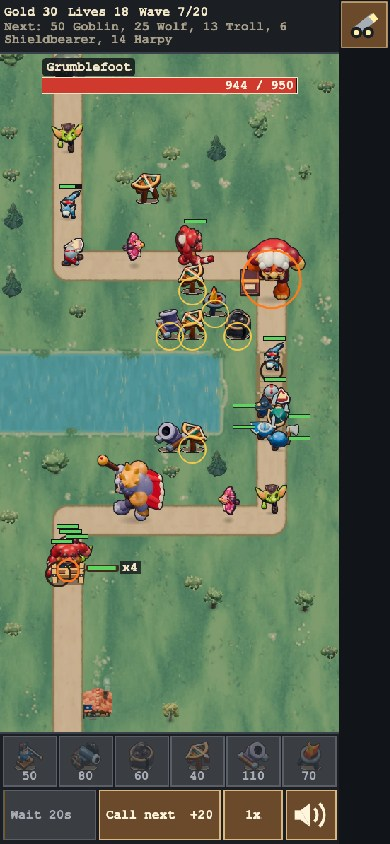
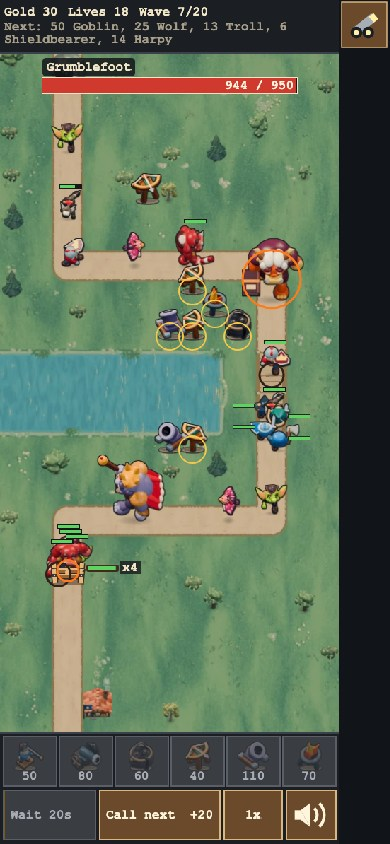
Refresh theme captures and correct the cold-load record

diff --git a/scripts/art/review_theme.ts b/scripts/art/review_theme.ts
@@ -15,7 +15,7 @@ try {
     const phone = layout === 'phone';
     const page = await browser.newPage({
       viewport: phone ? { width: 390, height: 844 } : { width: 960, height: 580 },
-      deviceScaleFactor: phone ? 3 : 1, isMobile: phone, hasTouch: phone,
+      deviceScaleFactor: 1, isMobile: phone, hasTouch: phone,
     });
     for (const map of ['meadow', 'switchback', 'riverbend'] as const) {
       await page.goto(`http://localhost:${process.env.PW_PORT}/?test=1&look=painted`);
@@ -50,7 +50,7 @@ try {
         // Space the cast along the road with two congested encounters at the blockers.
         const cast = [
           ['goblin', .08], ['wolf', .13], ['shieldbearer', .19], ['harpy', .24],
-          ['troll', .30], ['boss', .41], ['wolf', .47], ['shieldbearer', .51],
+          ['troll', .30], ['boss', .41], ['wolf', .55], ['shieldbearer', .48],
           ['goblin', .60], ['harpy', .64], ['grumblemaw', .74],
           ['goblin', .82], ['troll', .83], ['shieldbearer', .85], ['wolf', .86],
         ] as const;
@@ -58,6 +58,7 @@ try {
           id: state.nextEnemyId++, type, hp: i === 1 ? 650 : 950, maxHp: 950,
           distance: fraction * total, slow: 0, slowTicksLeft: 0,
         }));
+        const [, squadHound] = state.enemies.filter(e => e.type === 'wolf');
         for (const [special, fraction] of [['guards', .55], ['barricade', .86]] as const) {
           state.specialCharges = 1;
           state.specialRechargeTicks = 0;
@@ -66,7 +67,10 @@ try {
           if (!result.ok) throw Error(`${map} ${special}: ${result.reason}`);
           a.step(1);
         }
-        // The Barricade stops ground walkers only once they cross it.
+        // Stage one Hound meeting the squad and four walkers meeting the Barricade.
+        const guards = state.blockers.filter(b => b.kind === 'guard');
+        const guardDistance = Math.min(...guards.map(g => g.distance));
+        squadHound.distance = guardDistance - .1;
         const barrier = state.blockers.find(b => b.kind === 'barricade')!;
         for (const enemy of state.enemies.slice(-4)) enemy.distance = barrier.distance - .1;
         Object.assign(state.enemies.at(-2)!, { specialSlow: .4, specialSlowTicksLeft: 120 });
@@ -75,7 +79,8 @@ try {
         const snapshot = a.painted();
         const held = state.enemies.filter(e => e.type !== 'harpy' && e.distance === barrier.distance);
         if (held.length !== 4) throw Error(`Expected four held walkers on ${map}`);
-        if (!snapshot.active || state.map.id !== map || new Set(state.enemies.map(e => e.type)).size !== 7
+        if (squadHound.distance !== guardDistance) throw Error(`Hound missed the squad on ${map}`);
+        if (!snapshot.active || snapshot.density !== 1 || state.map.id !== map || new Set(state.enemies.map(e => e.type)).size !== 7
             || a.ui().special.guards.length !== 4) throw Error(`Incomplete review scene: ${map}`);
       }, map);
       await page.evaluate(async () => {
@@ -83,20 +88,20 @@ try {
         await new Promise<void>(ready => requestAnimationFrame(() => requestAnimationFrame(() => ready())));
       });
       await page.screenshot({ path: `${output}/${map}-${layout}.jpg`, quality: 89, scale: 'css' });
-      if (map === 'meadow' && !phone) {
-        for (const boss of ['boss', 'grumblemaw'] as const) {
-          const rect = await page.evaluate(type => {
-            const a = window.__tarpit as TarpitTestApi;
-            const key = type === 'boss' ? 'grumblefoot' : 'grumblemaw';
-            const sprite = a.painted().sprites.find(s => s.visible && s.key.includes(':' + key + ':'))!;
-            return a.canvasToPage(sprite.x, sprite.y);
-          }, boss);
-          const width = 320, height = 210;
-          const x = Math.max(0, Math.min(960 - width, Math.round(rect.x - width/2)));
-          const y = Math.max(0, Math.min(580 - height, Math.round(rect.y - height * .65)));
-          await page.screenshot({ path: `${output}/${boss === 'boss' ? 'assessor' : 'king'}.jpg`,
-            clip: { x, y, width, height }, quality: 93, scale: 'css' });
-        }
+      // Each boss faces the camera at this bend on its respective map.
+      if (!phone && (map === 'meadow' || map === 'riverbend')) {
+        const boss = map === 'meadow' ? 'boss' : 'grumblemaw';
+        const rect = await page.evaluate(type => {
+          const a = window.__tarpit as TarpitTestApi;
+          const key = type === 'boss' ? 'grumblefoot' : 'grumblemaw';
+          const sprite = a.painted().sprites.find(s => s.visible && s.key.includes(':' + key + ':'))!;
+          return a.canvasToPage(sprite.x, sprite.y);
+        }, boss);
+        const width = 320, height = 210;
+        const x = Math.max(0, Math.min(960 - width, Math.round(rect.x - width/2)));
+        const y = Math.max(0, Math.min(580 - height, Math.round(rect.y - height * .65)));
+        await page.screenshot({ path: `${output}/${boss === 'boss' ? 'assessor' : 'king'}.jpg`,
+          clip: { x, y, width, height }, quality: 93, scale: 'css' });
       }
       assert.equal(await page.evaluate(() => window.__tarpit!.scene!()), 'game');
     }

diff --git a/DEVLOG.md b/DEVLOG.md
@@ -9343,7 +9343,7 @@ grew from 412,201 to 450,948 bytes (9.4%). The full 2× load grew from
 1,013,421 to 1,115,469 bytes. The three-request path and the four-request
 speed-probe path use the existing loader.
 
-Cold Meadow Play with the production service worker on the shaped 1.6 Mbps,
+Cold Meadow Play with the service worker blocked on the shaped 1.6 Mbps,
 150 ms link took 2.470 s before and 2.568 s after at 1×. At 2× it took
 5.691 s before and 5.924 s after. Each measurement fetched three art files.
 
@@ -9353,3 +9353,14 @@ Verifier notes (44b):
 - `e2e/theme-verifier.spec.ts` pins the Guard outfit through a fight, 3x, a blur, a portrait/landscape switch, two squads, and a squad cut to three, and checks Classic still reports no outfit frame.
 - Cold Meadow load, `scripts/art/measure_painted.ts --baseline` (service worker blocked by the script; shaped 1.6 Mbps, 150 ms), three runs each: 1x main 2,260 ms (2,253 to 2,267), 44b 2,468 ms (2,467 to 2,484), +9.2%; 2x main 5,357 ms, 44b 5,885 ms, +9.9%. Three painted requests in each case. The DEVLOG above says "with the production service worker"; the script blocks the worker, so the numbers are for the plain network path.
 - Reading at game size: see the six captures in `docs/art/theme/verifier/`. The Hound is the one enemy that stayed blue, and it now shares the Guards' hue; the Redcoat's grey helmet beside the Swordsman's pale blue one is the closest pair inside a melee.
+
+**Fixes after verification.** The Revenue Hound has a grey-brown coat, pale
+muzzle and wider red collar. At phone 1× it reads as a runner beside the
+Switchback Guards. On Riverbend the collar and back distinguish it from the
+squad, though the Archer hides its head and legs at full overlap. The orange
+Assessor has horns beside his wig, a short maroon coat, a ledger and a square,
+tusked jaw. The Toll Troll also has tusks. The refreshed contact sheet, six map
+views and two boss crops show the shipped art. Reducing shared WebP quality
+from 95 to 94 kept the atlases at 376,434 and 925,220 bytes (+6.5% and +2.6%
+over main). Across three cold Meadow runs per build with the worker blocked,
+median 1× Play time rose from 2,278 to 2,374 ms (+4.2%), with three art requests.
